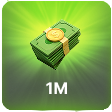
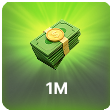
add animation cash to wallet

diff --git a/src/components/Dollargrids.jsx b/src/components/Dollargrids.jsx
@@ -3,6 +3,7 @@ import itemsGrid from "../api/api";
 import { GameContext } from "../context/GameProvider";
 import WalletDisplay from "../components/WalletDisplay";
 import { motion } from "framer-motion";
+import FlyingCash from "./FlyingCash";
 
 
 function generateShuffledArray() {
@@ -15,34 +16,32 @@ function generateShuffledArray() {
 }
 
 const DollarGrid = () => {
+  const base = import.meta.env.BASE_URL || '/';
+
   const [numbers, setNumbers] = useState([]);
   const [revealed, setRevealed] = useState(Array(9).fill(false));
   const { state, dispatchGame } = useContext(GameContext);
 
-  const [flyItem, setFlyItem] = useState(null);
+  const [showCash, setShowCash] = useState(false);
+  const [cashOriginRect, setCashOriginRect] = useState(null);
   const walletRef = useRef(null);
 
 
   useEffect(() => {
     setNumbers(generateShuffledArray());
   }, []);
-
   const handleClick = (index, item) => {
     if (revealed[index]) return;
 
     setRevealed((prev) => {
       const updated = [...prev];
       updated[index] = true;
-
-      if (item.stop && item.value === 0) {
-        return updated.map(() => true);
-      }
-
       return updated;
     });
 
     if (item.stop && item.value === 0) {
       dispatchGame({ type: "SET_STOP_GAME", payload: true });
+      setRevealed(new Array(9).fill(true));
       return;
     }
 
@@ -57,28 +56,35 @@ const DollarGrid = () => {
     }
 
     if (item.value > 0) {
+      const cellNode = document.querySelector(`.cell-${index}`);
+
+      if (cellNode) {
+        setCashOriginRect(cellNode.getBoundingClientRect());
+      }
+      
       dispatchGame({
         type: "SET_WALLET",
         payload: state.wallet + item.value * state.multiplication,
       });
+
+      setShowCash(true);
       return;
     }
-
     if (item.value === 0) {
       dispatchGame({ type: "SET_WALLET", payload: 0 });
       return;
     }
   };
-
   return (
     <>
-      <div className="flex flex-col items-center justify-center min-h-screen">
-        <WalletDisplay />
-        <div className="grid grid-cols-3 gap-3 p-4">
+
+      <div className="flex flex-col items-center justify-center min-h-screen relative">
+        <WalletDisplay ref={walletRef} />
+        <div className="grid grid-cols-3 gap-2 p-4">
           {numbers.map((num, index) => {
             const isRevealed = revealed[index];
             const frontImage = itemsGrid[num].path;
-            const backImage = "/images/Items-back.png";
+            const backImage = `${import.meta.env.BASE_URL}images/Items-back.png`;
 
             return (
               <motion.div
@@ -107,12 +113,27 @@ const DollarGrid = () => {
                       backfaceVisibility: "hidden",
                     }}
                   />
+                  
+
+
+
+
+
                 </motion.div>
               </motion.div>
             );
           })}
         </div>
+
+        {showCash && cashOriginRect && (
+          <FlyingCash
+            originRect={cashOriginRect}
+            targetRef={walletRef}
+            onComplete={() => setShowCash(false)}
+          />
+        )}
       </div>
+
     </>
   );
 };

diff --git a/src/api/api.js b/src/api/api.js
@@ -1,13 +1,14 @@
+export const base = import.meta.env.BASE_URL || '/';
 const itemsGrid = {
-  1: { path: "/images/Items-0.png", value: 0, stop: false, multiplication: 1 },
-  2: { path: "/images/Items-10k.png", value: 10000, stop: false, multiplication: 1 },
-  3: { path: "/images/Items-100.png", value: 100, stop: false, multiplication: 1 },
-  4: { path: "/images/Items-500.png", value: 500, stop: false, multiplication: 1 },
-  5: { path: "/images/Items-1000.png", value: 1000, stop: false, multiplication: 1 },
-  6: { path: "/images/Items-1m.png", value: 1000000, stop: false, multiplication: 1 },
-  7: { path: "/images/Items-bombs.png", value: 0, stop: true, multiplication: 1 },
-  8: { path: "/images/Items-stop.png", value: null, stop: true, multiplication: 1 },
-  9: { path: "/images/Items-x2.png", value: null, stop: false, multiplication: 2 },
+  1: { path: `${base}images/Items-0.png`, value: 0, stop: false, multiplication: 1 },
+  2: { path: `${base}images/Items-10k.png`, value: 10000, stop: false, multiplication: 1 },
+  3: { path: `${base}images/Items-100.png`, value: 100, stop: false, multiplication: 1 },
+  4: { path: `${base}images/Items-500.png`, value: 500, stop: false, multiplication: 1 },
+  5: { path: `${base}images/Items-1000.png`, value: 1000, stop: false, multiplication: 1 },
+  6: { path: `${base}images/Items-1m.png`, value: 1000000, stop: false, multiplication: 1 },
+  7: { path: `${base}images/Items-bombs.png`, value: 0, stop: true, multiplication: 1 },
+  8: { path: `${base}images/Items-stop.png`, value: null, stop: true, multiplication: 1 },
+  9: { path: `${base}images/Items-x2.png`, value: null, stop: false, multiplication: 2 },
 };
 
 export default itemsGrid

diff --git a/src/components/WalletDisplay.jsx b/src/components/WalletDisplay.jsx
@@ -1,4 +1,4 @@
-import React from "react";
+import React, { forwardRef } from "react";
 import { useGame } from "../hooks/Hooks";
 
 const formatWallet = (value) => {
@@ -10,13 +10,14 @@ const formatWallet = (value) => {
   return num.toString();
 };
 
-export default function WalletDisplay() {
+const WalletDisplay = forwardRef(function WalletDisplay(props, ref) {
   const { wallet } = useGame();
 
   return (
-    <div className="flex items-center gap-2 text-xl font-bold text-white px-4 py-2 rounded">
-      <img src="/images/cash.png" alt="cash" className="w-6 h-6" />
+    <div ref={ref} className="flex items-center gap-2 text-xl font-bold text-white px-4 py-2 rounded">
+      <img src={`${import.meta.env.BASE_URL}images/cash.png`} alt="cash" className="w-6 h-6" />
       {formatWallet(wallet)}
     </div>
   );
-}
+});
+export default WalletDisplay;

diff --git a/src/hooks/Hooks.jsx b/src/hooks/Hooks.jsx
@@ -2,7 +2,6 @@ import React, { useContext } from "react";
 import { GameContext } from "../context/GameProvider";
 import { AlertContext } from "../context/AlertContext";
 
-// Hook for accessing game state & dispatcher
 export const useGame = () => {
   const {
     state: { wallet, stopGame, multiplication },
@@ -12,7 +11,6 @@ export const useGame = () => {
   return { wallet, stopGame, multiplication, dispatchGame };
 };
 
-// Hook for loading/error states (if you have them in GameContext)
 export const useAppState = () => {
   const {
     state: { isLoading, isError },
@@ -20,7 +18,6 @@ export const useAppState = () => {
   return { isLoading, isError };
 };
 
-// Hook for alerts
 export const useAlert = () => {
   const { alertState, dispatchAlert } = useContext(AlertContext);
 

diff --git a/src/pages/Home.jsx b/src/pages/Home.jsx
@@ -7,8 +7,6 @@ import WalletDisplay from "../components/WalletDisplay";
 export const Home = () => {
   const { wallet, stopGame, multiplication, dispatchGame } = useGame();
   useEffect(() => {
-    console.log(wallet);
-
   }, [wallet])
   return (
     <>
@@ -19,7 +17,7 @@ export const Home = () => {
           md:bg-cover 
           xl:bg-fixed 
         "
-        style={{ backgroundImage: 'url(/images/Bg.svg)' }}
+        style={{ backgroundImage: `url(${import.meta.env.BASE_URL}images/Bg.svg)` }}
       >
         <DollarGrid />
       </div>

diff --git a/index.html b/index.html
@@ -2,12 +2,12 @@
 <html lang="en">
   <head>
     <meta charset="UTF-8" />
-    <link rel="icon" type="image/svg+xml" href="/vite.svg" />
+    <link rel="icon" type="image/svg+xml" href="vite.svg" />
     <meta name="viewport" content="width=device-width, initial-scale=1.0" />
     <title>React JS + Tailwind CSS</title>
   </head>
   <body class="">
     <div id="root"></div>
-    <script type="module" src="/src/main.jsx"></script>
+    <script type="module" src="src/main.jsx"></script>
   </body>
 </html>

diff --git a/src/store/alertReducer.js b/src/store/alertReducer.js
@@ -18,12 +18,7 @@ const reducer = (state, action) => {
         message: "",
         variant: "",
       };
-    // case "WARNING":
-    //   return {
-    //     ...state,
-    //     warning: action.payload,
-    //   };
-    default:
+        default:
       return state;
   }
 };

diff --git a/src/App.jsx b/src/App.jsx
@@ -3,7 +3,7 @@ import Home from "./pages/Home";
 
 function App() {
   return (
-    <Router>
+    <Router basename={import.meta.env.BASE_URL}>
       <Routes>
         <Route index element={<Home />} />
       </Routes>

diff --git a/src/store/userReducer.js b/src/store/userReducer.js
@@ -46,7 +46,6 @@ const reducer = (state, action) => {
       };
 
     default:
-      // If the action type is not recognized, return the unchanged state
       return state;
   }
 };
